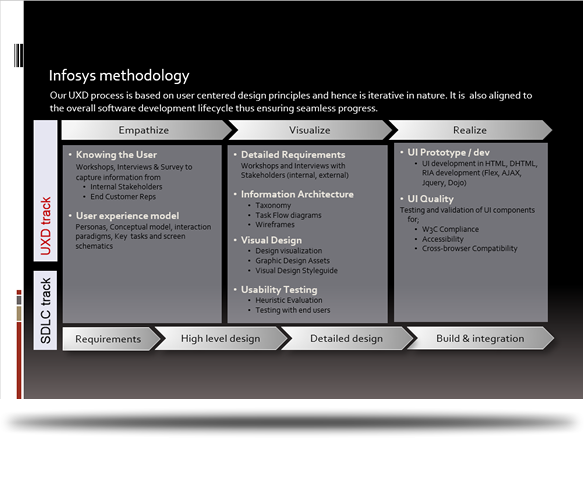
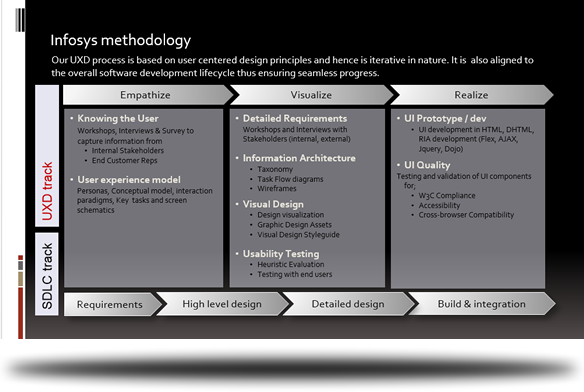
update image and page
two things

diff --git a/pages/company1.html b/pages/company1.html
@@ -11,7 +11,7 @@
                 
                 <a class="btn" href="#!/" ng-class="{activeSmall:part == 'projects'}">Back</a>
             </div>
-            <img class="picture right" src="../images/element-Infosys-Method-2.png" />
+            <img class="picture right" src="../images/element-Infosys-Method.png" />
             <div style="clear:both"></div>
         </div>
     </div>
